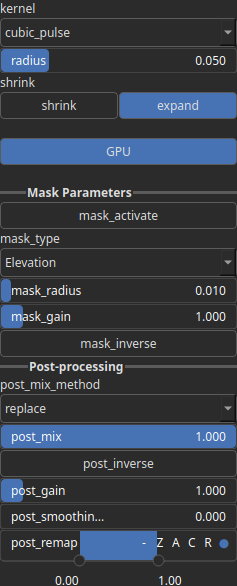
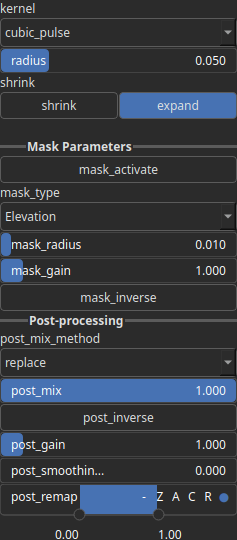
Add input kernel for ExpandShrink node

diff --git a/Hesiod/src/model/nodes/nodes_function/expand_shrink.cpp b/Hesiod/src/model/nodes/nodes_function/expand_shrink.cpp
@@ -24,16 +24,16 @@ void setup_expand_shrink_node(BaseNode *p_node)
   // port(s)
   p_node->add_port<hmap::Heightmap>(gnode::PortType::IN, "input");
   p_node->add_port<hmap::Heightmap>(gnode::PortType::IN, "mask");
+  p_node->add_port<hmap::Array>(gnode::PortType::IN, "kernel");
   p_node->add_port<hmap::Heightmap>(gnode::PortType::OUT, "output", CONFIG);
 
   // attribute(s)
   ADD_ATTR(EnumAttribute, "kernel", kernel_type_map, "cubic_pulse");
   ADD_ATTR(FloatAttribute, "radius", 0.05f, 0.01f, 0.2f);
   ADD_ATTR(BoolAttribute, "shrink", "shrink", "expand", false);
-  ADD_ATTR(BoolAttribute, "GPU", HSD_DEFAULT_GPU_MODE);
 
   // attribute(s) order
-  p_node->set_attr_ordered_key({"kernel", "radius", "shrink", "_SEPARATOR_", "GPU"});
+  p_node->set_attr_ordered_key({"kernel", "radius", "shrink"});
 
   setup_pre_process_mask_attributes(p_node);
   setup_post_process_heightmap_attributes(p_node, true);
@@ -58,63 +58,50 @@ void compute_expand_shrink_node(BaseNode *p_node)
     // copy the input heightmap
     *p_out = *p_in;
 
-    int ir = std::max(1, (int)(GET("radius", FloatAttribute) * p_out->shape.x));
+    // kernel definition - use input kernel by default, if not switch
+    // to built-in kernels
+    hmap::Array  kernel_array;
+    hmap::Array *p_kernel = p_node->get_value_ref<hmap::Array>("kernel");
 
-    // kernel definition
-    hmap::Array     kernel_array;
-    hmap::Vec2<int> kernel_shape = {2 * ir + 1, 2 * ir + 1};
+    if (p_kernel)
+    {
+      kernel_array = *p_kernel;
+    }
+    else
+    {
+      int ir = std::max(1, (int)(GET("radius", FloatAttribute) * p_out->shape.x));
+      hmap::Vec2<int> kernel_shape = {2 * ir + 1, 2 * ir + 1};
 
-    kernel_array = hmap::get_kernel(kernel_shape,
-                                    (hmap::KernelType)GET("kernel", EnumAttribute));
+      kernel_array = hmap::get_kernel(kernel_shape,
+                                      (hmap::KernelType)GET("kernel", EnumAttribute));
+    }
 
     // core operator
     std::function<void(hmap::Array &, hmap::Array *)> lambda;
 
-    if (GET("GPU", BoolAttribute))
+    if (GET("shrink", BoolAttribute))
     {
-      if (GET("shrink", BoolAttribute))
-        hmap::transform(
-            {p_out, p_mask},
-            [&kernel_array](std::vector<hmap::Array *> p_arrays)
-            {
-              hmap::Array *pa_out = p_arrays[0];
-              hmap::Array *pa_mask = p_arrays[1];
-              hmap::gpu::shrink(*pa_out, kernel_array, pa_mask);
-            },
-            p_node->get_config_ref()->hmap_transform_mode_gpu);
-      else
-        hmap::transform(
-            {p_out, p_mask},
-            [&kernel_array](std::vector<hmap::Array *> p_arrays)
-            {
-              hmap::Array *pa_out = p_arrays[0];
-              hmap::Array *pa_mask = p_arrays[1];
-              hmap::gpu::expand(*pa_out, kernel_array, pa_mask);
-            },
-            p_node->get_config_ref()->hmap_transform_mode_gpu);
+      hmap::transform(
+          {p_out, p_mask},
+          [&kernel_array](std::vector<hmap::Array *> p_arrays)
+          {
+            hmap::Array *pa_out = p_arrays[0];
+            hmap::Array *pa_mask = p_arrays[1];
+            hmap::gpu::shrink(*pa_out, kernel_array, pa_mask);
+          },
+          p_node->get_config_ref()->hmap_transform_mode_gpu);
     }
     else
     {
-      if (GET("shrink", BoolAttribute))
-        hmap::transform(
-            {p_out, p_mask},
-            [&kernel_array](std::vector<hmap::Array *> p_arrays)
-            {
-              hmap::Array *pa_out = p_arrays[0];
-              hmap::Array *pa_mask = p_arrays[1];
-              hmap::shrink(*pa_out, kernel_array, pa_mask);
-            },
-            p_node->get_config_ref()->hmap_transform_mode_cpu);
-      else
-        hmap::transform(
-            {p_out, p_mask},
-            [&kernel_array](std::vector<hmap::Array *> p_arrays)
-            {
-              hmap::Array *pa_out = p_arrays[0];
-              hmap::Array *pa_mask = p_arrays[1];
-              hmap::expand(*pa_out, kernel_array, pa_mask);
-            },
-            p_node->get_config_ref()->hmap_transform_mode_cpu);
+      hmap::transform(
+          {p_out, p_mask},
+          [&kernel_array](std::vector<hmap::Array *> p_arrays)
+          {
+            hmap::Array *pa_out = p_arrays[0];
+            hmap::Array *pa_mask = p_arrays[1];
+            hmap::gpu::expand(*pa_out, kernel_array, pa_mask);
+          },
+          p_node->get_config_ref()->hmap_transform_mode_gpu);
     }
 
     p_out->smooth_overlap_buffers();

diff --git a/Hesiod/src/model/nodes/nodes_function/convolve_svd.cpp b/Hesiod/src/model/nodes/nodes_function/convolve_svd.cpp
@@ -25,10 +25,11 @@ void setup_convolve_svd_node(BaseNode *p_node)
 
   // attribute(s)
   ADD_ATTR(IntAttribute, "rank", 4, 1, 8);
-  ADD_ATTR(RangeAttribute, "remap");
 
   // attribute(s) order
-  p_node->set_attr_ordered_key({"rank", "_SEPARATOR_", "remap"});
+  p_node->set_attr_ordered_key({"rank"});
+
+  setup_post_process_heightmap_attributes(p_node, true);
 }
 
 void compute_convolve_svd_node(BaseNode *p_node)
@@ -53,16 +54,7 @@ void compute_convolve_svd_node(BaseNode *p_node)
     p_out->smooth_overlap_buffers();
 
     // post-process
-    post_process_heightmap(p_node,
-                           *p_out,
-                           false, // inverse
-                           false, // smooth
-                           0,
-                           false, // saturate
-                           {0.f, 0.f},
-                           0.f,
-                           GET_MEMBER("remap", RangeAttribute, is_active),
-                           GET("remap", RangeAttribute));
+    post_process_heightmap(p_node, *p_out);
   }
 
   Q_EMIT p_node->compute_finished(p_node->get_id());

diff --git a/docs/node_reference/nodes/ExpandShrink.md b/docs/node_reference/nodes/ExpandShrink.md
@@ -19,6 +19,7 @@ Filter/Recast
 |Name|Type|Description|
 | :--- | :--- | :--- |
 |input|Heightmap|Input heightmap.|
+|kernel|Array|No description|
 |mask|Heightmap|Mask defining the filtering intensity (expected in [0, 1]).|
 
 # Outputs
@@ -31,7 +32,6 @@ Filter/Recast
 
 |Name|Type|Description|
 | :--- | :--- | :--- |
-|GPU|Bool|Toogle GPU acceleration on or off.|
 |kernel|Enumeration|Weighting kernel. Available values: biweight, cone, cone_smooth, cubic_pulse, disk, lorentzian, smooth_cosine, square, tricube.|
 |mask_activate|Bool|No description|
 |mask_gain|Float|No description|
